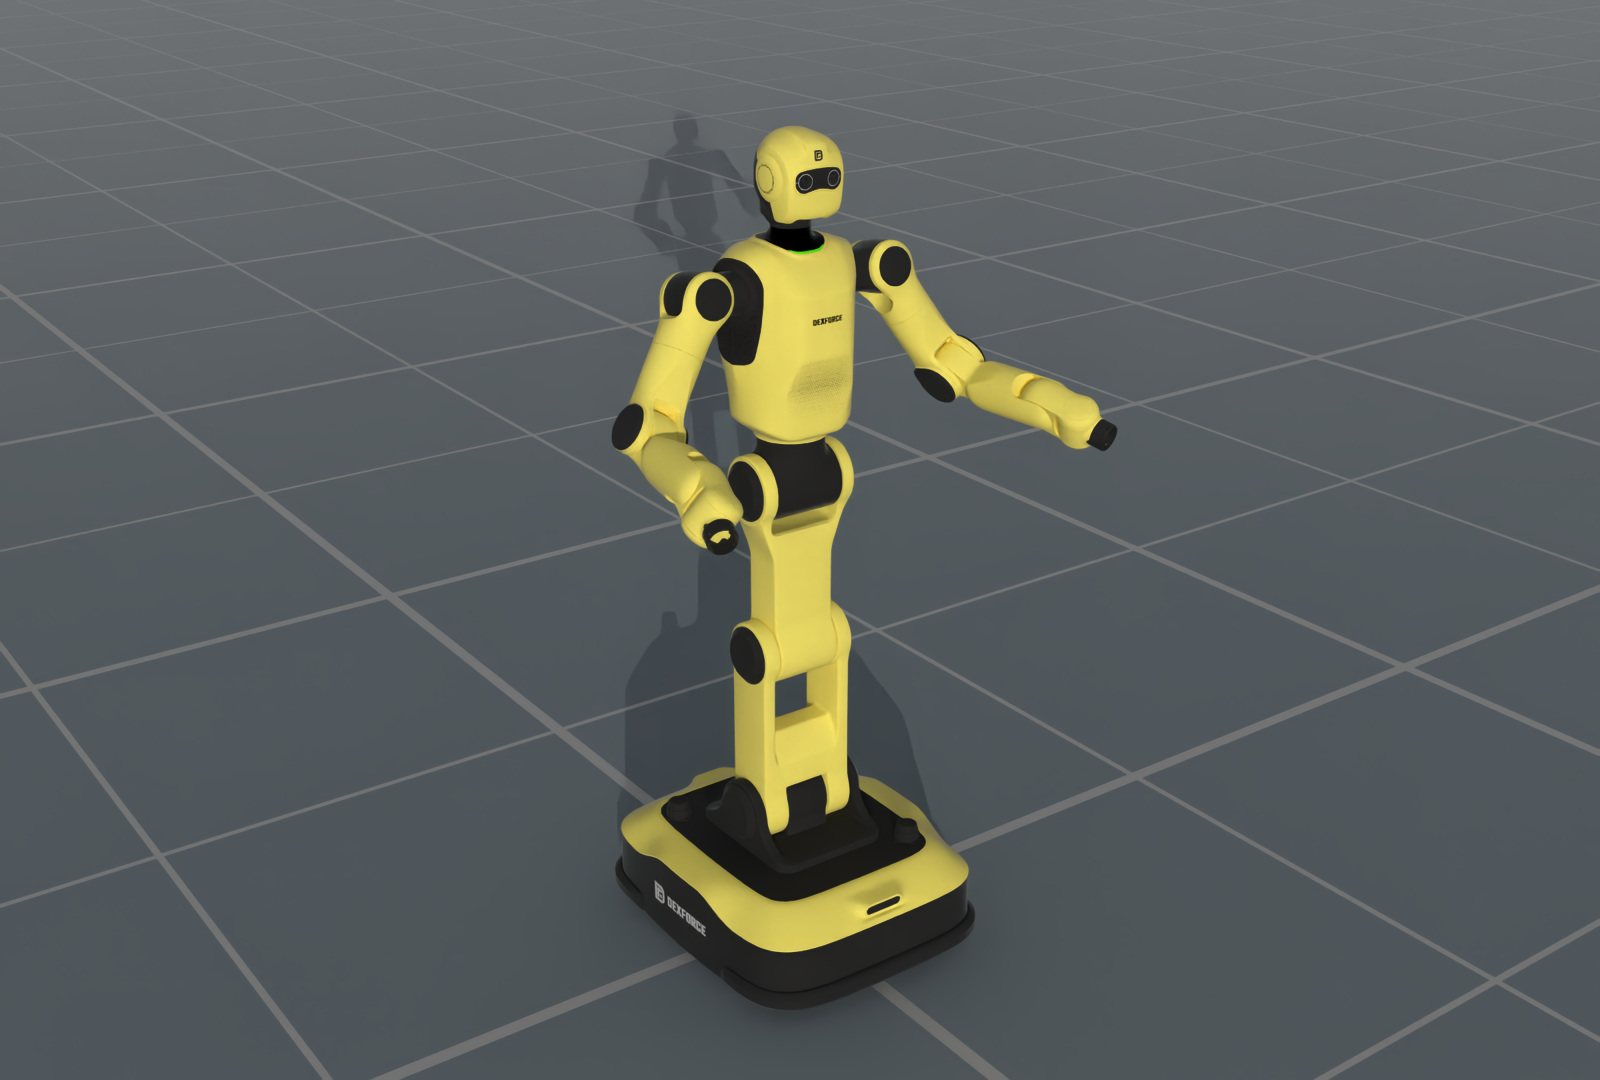
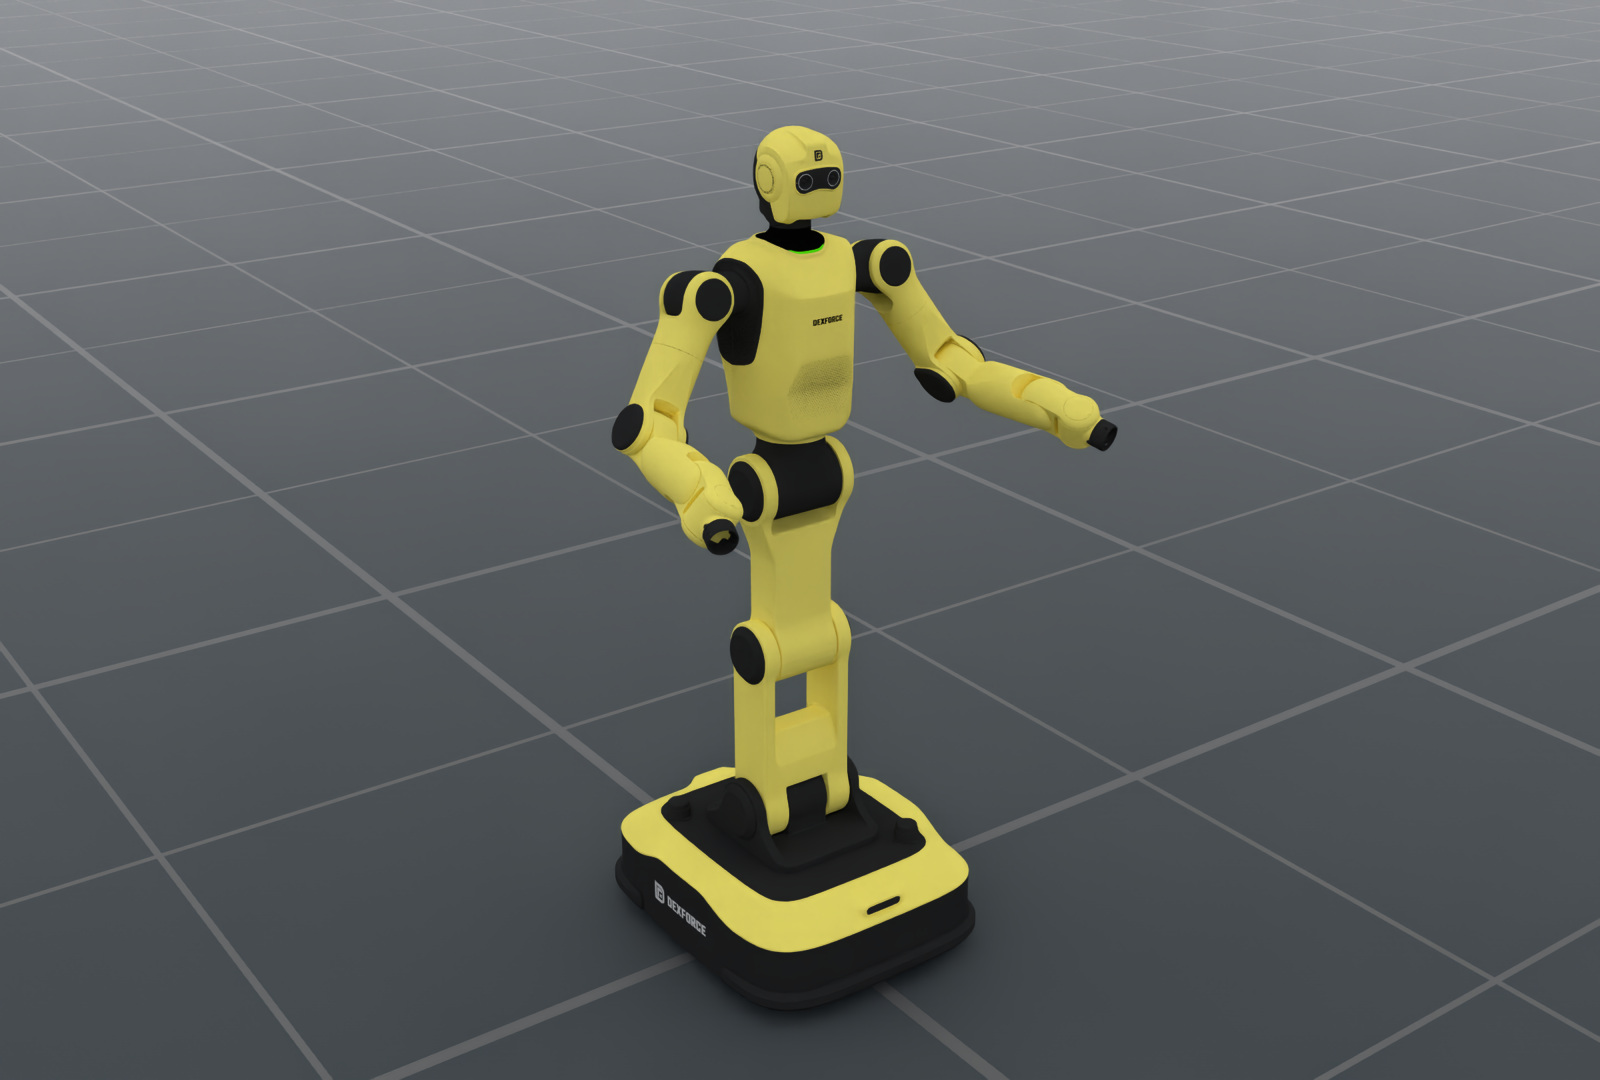
docs(robot): render W1 v030 with default OfflineRT settings
Use RenderCfg(renderer=rt) with every other render field and scene light at its default. Retain the existing body, display pose, materials and camera, and document the rendering setup beside the image.

diff --git a/docs/source/resources/robot/dexforce_w1.md b/docs/source/resources/robot/dexforce_w1.md
@@ -15,7 +15,9 @@ Dexforce W1 is a dual-arm humanoid robot developed by DexForce Technology Co., L
 </div>
 
 The V030 image uses the registered `v030/bare` asset in a bent-elbow display
-pose. Its physical wrist flanges are shown without detachable end effectors.
+pose, rendered with `RenderCfg(renderer="rt")` (OfflineRT). All other
+`RenderCfg` fields and scene lighting use their defaults. Its physical wrist flanges
+are shown without detachable end effectors.
 
 ## Key Features
 
